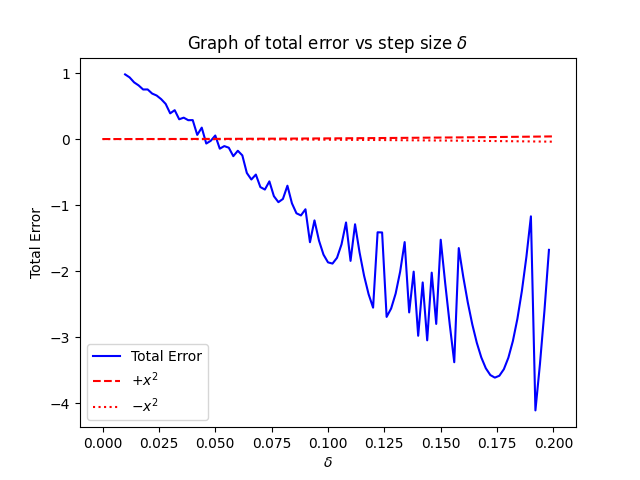
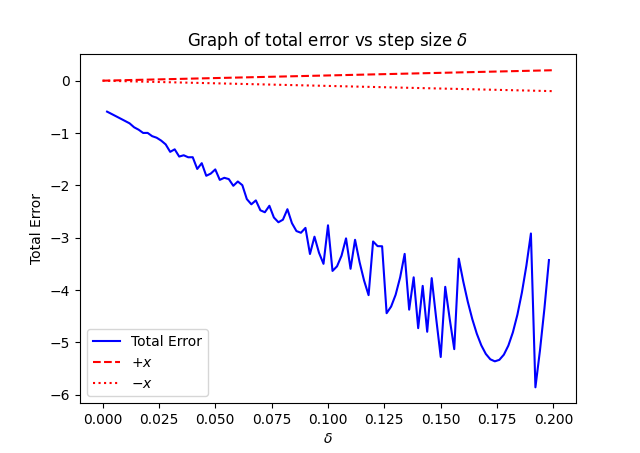
changed some parameters

diff --git a/forward_euler_approx.py b/forward_euler_approx.py
@@ -31,7 +31,7 @@ def forward_euler_approx(q_initial, q_final, p_initial, delta):
     return(q_array, p_array)
 
 # Data for plotting
-deltas = [0.2, 0.1, 0.05, 0.01]
+deltas = [0.2, 0.1, 0.05, 0.032]
 q_start = 5
 q_end = 20
 q1, p1 = forward_euler_approx(5, 20, 0, deltas[0])
@@ -95,7 +95,8 @@ def phase_portrait(delta):
 
 # Total error calculation
 def total_error(step_sizes: list):
-    actual = -5*np.sin(np.pi/2)
+    # Endpoint taken to be 15
+    actual = -5*np.sin(15)
     print(f'actual: {actual}')
     errors = []
     for delta in step_sizes:
@@ -110,10 +111,9 @@ def total_error(step_sizes: list):
 def total_error_plot(step_sizes: list):
     x, y = total_error(step_sizes)
     plt.plot(x, y, 'b', label = 'Total Error')
-    x_quad = np.linspace(0,0.2,100)
-    y_quad = x_quad**2
-    plt.plot(x_quad, y_quad, 'r', linestyle='dashed', label = r'$+x^2$')
-    plt.plot(x_quad, -y_quad, 'r', linestyle='dotted', label = r'$-x^2$')
+    x_theo = np.linspace(0,0.2,100)
+    plt.plot(x_theo, x_theo, 'r', linestyle='dashed', label = r'$+x$')
+    plt.plot(x_theo, -x_theo, 'r', linestyle='dotted', label = r'$-x$')
     plt.xlabel(r'$\delta$')
     plt.ylabel('Total Error')
     plt.legend()
@@ -126,7 +126,6 @@ def total_error_plot(step_sizes: list):
 def comparison_plot():
     q, p = forward_euler_approx(5, 20, 0, deltas[2])
     t = np.linspace(0, int(q_end-q_start), int((q_end-q_start)//deltas[2]))
-    print(f't: {t}')
     plt.plot(t, q)
     x = np.arange(0,15,deltas[2])   # start,stop,step
     y = np.cos(x)
@@ -137,5 +136,5 @@ def comparison_plot():
 # multiplot_qt()
 # multiplot_pq()
 # phase_portrait(deltas[2])
-total_error_plot(np.arange(0.01, 0.2, 0.002))
+total_error_plot(np.arange(0.002, 0.2, 0.002))
 # comparison_plot()
